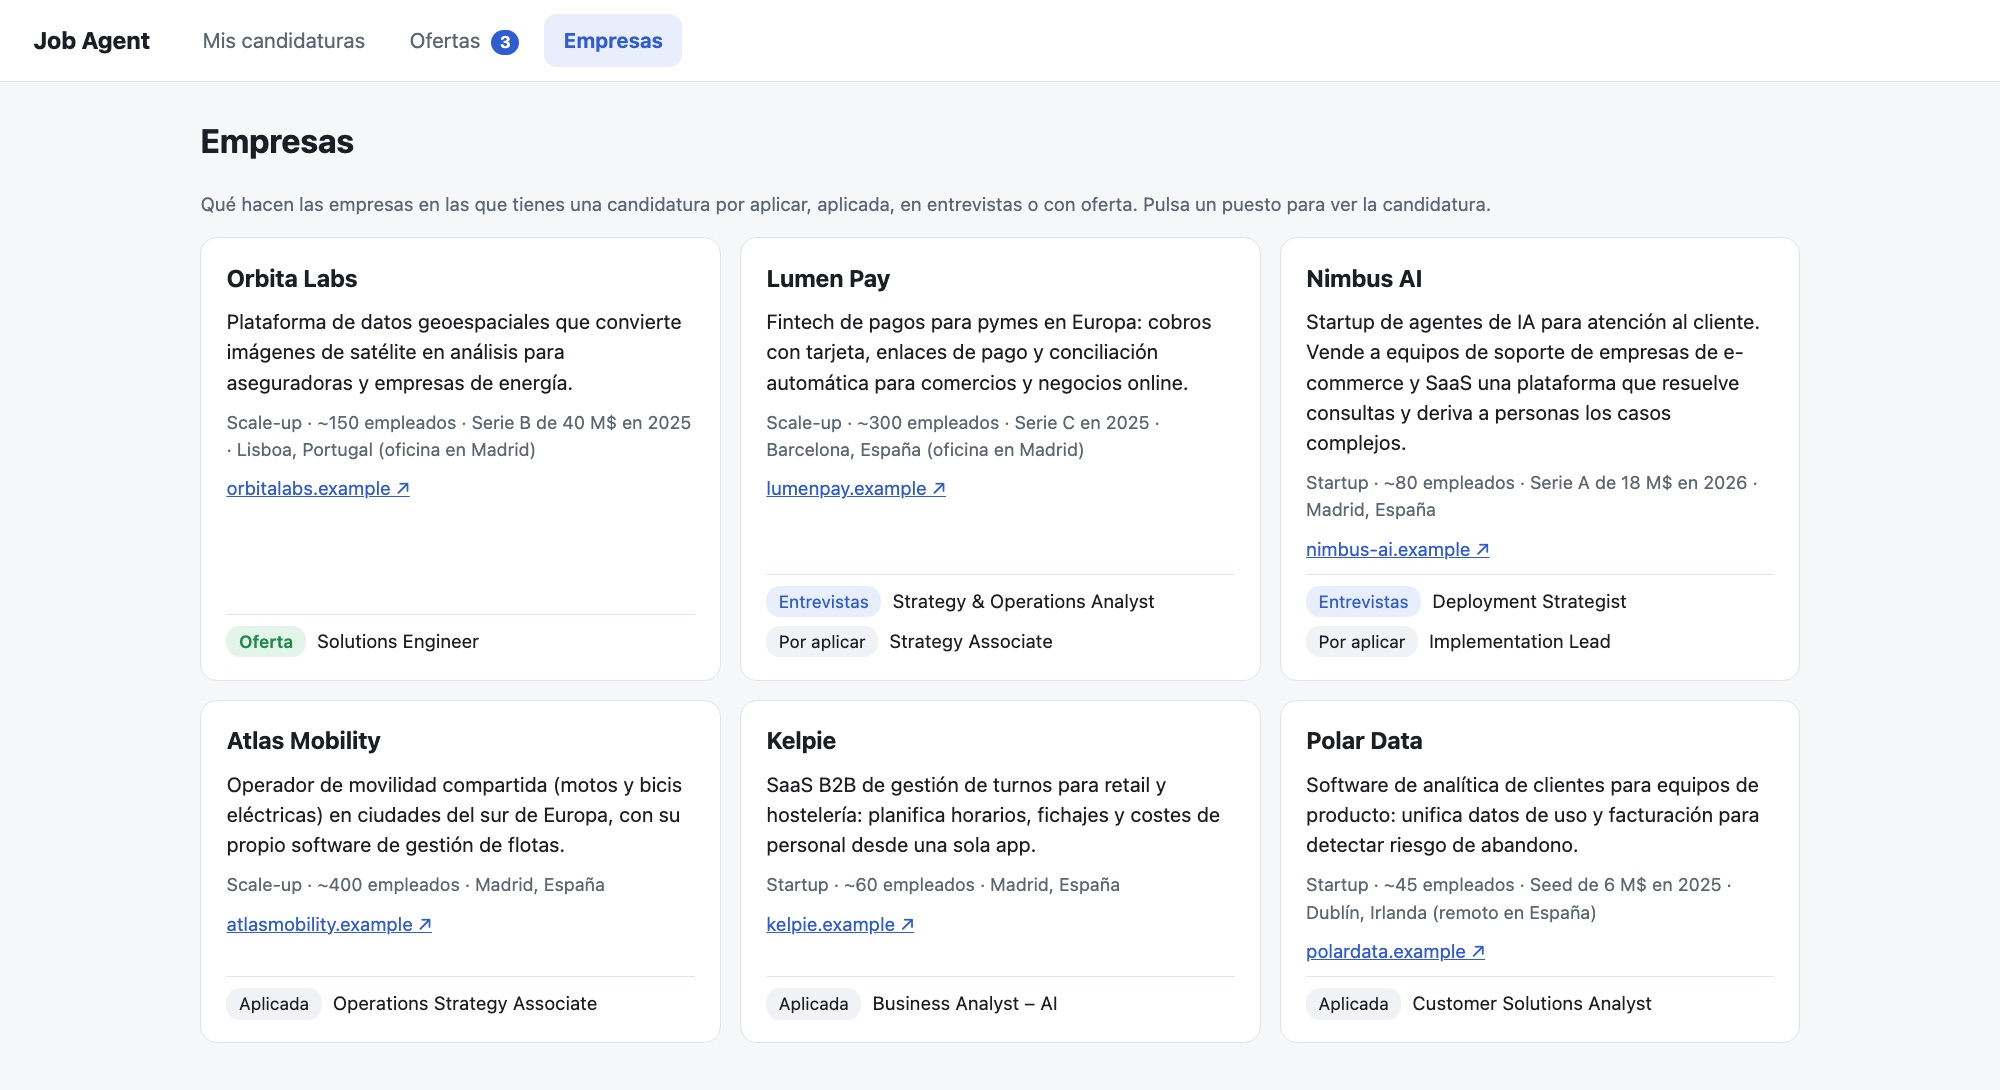
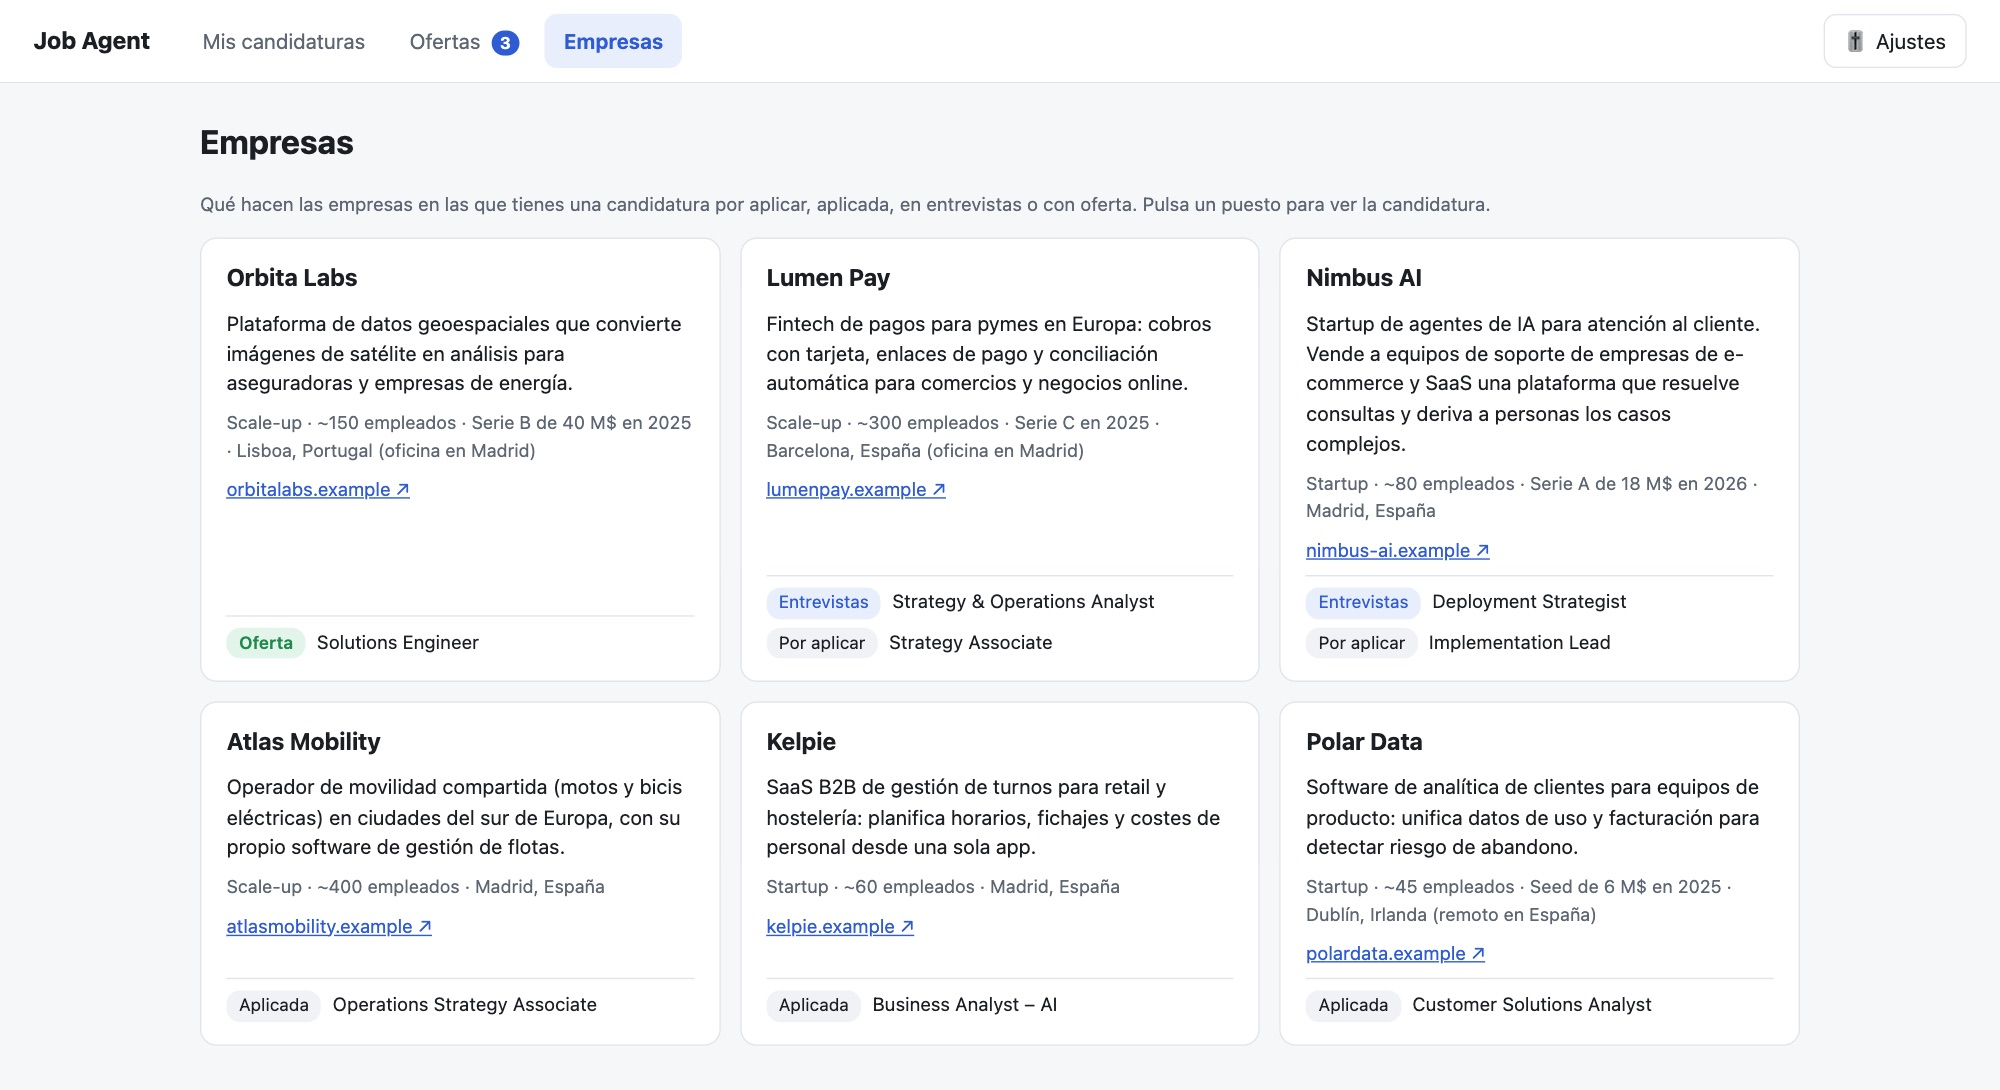
Tutor de idiomas (WIP) como proyecto destacado; Job Agent: panel de Ajustes y capturas nuevas

diff --git a/index.html b/index.html
@@ -159,6 +159,7 @@ footer { border-top: 1px solid var(--borde); color: var(--suave); font-size: 13.
     <a class="marca" href="#">Enriqueta Gersol</a>
     <nav>
       <a href="#job-agent"><span lang="es">Job Agent</span><span lang="en">Job Agent</span></a>
+      <a href="#tutor"><span lang="es">Tutor</span><span lang="en">Tutor</span></a>
       <a href="#proyectos"><span lang="es">Proyectos</span><span lang="en">Projects</span></a>
       <a href="#contacto"><span lang="es">Contacto</span><span lang="en">Contact</span></a>
     </nav>
@@ -217,7 +218,7 @@ footer { border-top: 1px solid var(--borde); color: var(--suave); font-size: 13.
           </div>
         </div>
         <ul class="cifras-proyecto">
-          <li><b>145</b><span lang="es">empresas</span><span lang="en">companies</span></li><li><b>7</b><span lang="es">plataformas de reclutamiento</span><span lang="en">recruiting platforms</span></li><li><b>17</b><span lang="es">acciones por Slack</span><span lang="en">Slack actions</span></li><li><b><span lang="es">~5.600</span><span lang="en">~5,600</span></b><span lang="es">líneas en 18 módulos</span><span lang="en">lines in 18 modules</span></li>
+          <li><b>145</b><span lang="es">empresas</span><span lang="en">companies</span></li><li><b>7</b><span lang="es">plataformas de reclutamiento</span><span lang="en">recruiting platforms</span></li><li><b>17</b><span lang="es">acciones por Slack</span><span lang="en">Slack actions</span></li><li><b><span lang="es">~5.900</span><span lang="en">~5,900</span></b><span lang="es">líneas en 18 módulos</span><span lang="en">lines in 18 modules</span></li>
         </ul>
 
         <div class="dos-columnas contexto">
@@ -257,8 +258,8 @@ footer { border-top: 1px solid var(--borde); color: var(--suave); font-size: 13.
             <figcaption><span lang="es">CV optimizado, con lo que ha cambiado y lo que hay que revisar al lado</span><span lang="en">Tailored CV, with what changed and what to review alongside</span></figcaption></figure>
           <figure><div class="marco" data-zoom="img/ja-detalle.jpg"><div class="puntos"><i></i><i></i><i></i></div><img src="img/ja-detalle.jpg" alt="Detalle de una candidatura"></div>
             <figcaption><span lang="es">Detalle de una candidatura: novedad, próximo paso sugerido e historial</span><span lang="en">Application detail: latest update, suggested next step and history</span></figcaption></figure>
-          <figure><div class="marco" data-zoom="img/ja-te-interesa.jpg"><div class="puntos"><i></i><i></i><i></i></div><img src="img/ja-te-interesa.jpg" alt="Ofertas que me interesan"></div>
-            <figcaption><span lang="es">«Te interesa»: CV optimizado, aplicada o descartar, en un clic</span><span lang="en">"Interested": tailored CV, applied or dismiss, in one click</span></figcaption></figure>
+          <figure><div class="marco" data-zoom="img/ja-ajustes.jpg"><div class="puntos"><i></i><i></i><i></i></div><img src="img/ja-ajustes.jpg" alt="Ajustes de consumo"></div>
+            <figcaption><span lang="es">Ajustes: qué hace sola, cada cuánto y con qué modelo, para controlar el gasto</span><span lang="en">Settings: what it does on its own, how often and with which model, to keep costs down</span></figcaption></figure>
           <figure><div class="marco" data-zoom="img/ja-empresas.jpg"><div class="puntos"><i></i><i></i><i></i></div><img src="img/ja-empresas.jpg" alt="Fichas de empresas"></div>
             <figcaption><span lang="es">Empresas: una ficha por empresa con lo que hace, su tamaño, su sede y mis puestos allí</span><span lang="en">Companies: one card per company with what it does, its size, its HQ and my roles there</span></figcaption></figure>
           <figure><div class="marco" data-zoom="img/ja-aplicadas.jpg"><div class="puntos"><i></i><i></i><i></i></div><img src="img/ja-aplicadas.jpg" alt="Puestos aplicados"></div>
@@ -271,7 +272,7 @@ footer { border-top: 1px solid var(--borde); color: var(--suave); font-size: 13.
             <ul class="decisiones">
               <li><span class="n">1</span><div><b><span lang="es">La persona decide</span><span lang="en">The human decides</span></b><p><span lang="es">Nada importante se guarda sin un sí.</span><span lang="en">Nothing important is saved without a yes.</span></p></div></li>
               <li><span class="n">2</span><div><b><span lang="es">Sin inventar</span><span lang="en">No making things up</span></b><p><span lang="es">Datos solo si están en el CV, la oferta o el correo; si falta algo, pregunta.</span><span lang="en">Facts only if they're in the CV, the posting or the email; if something is missing, it asks.</span></p></div></li>
-              <li><span class="n">3</span><div><b><span lang="es">Coste bajo control</span><span lang="en">Cost under control</span></b><p><span lang="es">Cada tarea usa el modelo justo: Haiku para clasificar correos, cribar por título, sugerir próximos pasos, las fichas de empresa y el chat; Sonnet para analizar ofertas y escribir CVs. Las búsquedas filtran por título antes de analizar a fondo. Un correo cuesta ≈ 0,0005 $, un mensaje de chat ≈ 0,002 $ y un CV ≈ 0,10-0,15 $.</span><span lang="en">Each task uses the right model: Haiku to classify emails, screen titles, suggest next steps, build company cards and chat; Sonnet to analyse openings and write CVs. Searches filter by title before any in-depth analysis. An email costs ≈ $0.0005, a chat message ≈ $0.002 and a CV ≈ $0.10–0.15.</span></p></div></li>
+              <li><span class="n">3</span><div><b><span lang="es">Coste bajo control</span><span lang="en">Cost under control</span></b><p><span lang="es">Cada tarea usa el modelo justo: Haiku para clasificar correos, cribar por título, sugerir próximos pasos, las fichas de empresa y el chat; Sonnet para analizar ofertas y escribir CVs. Las búsquedas filtran por título antes de analizar a fondo. Un correo cuesta ≈ 0,0005 $, un mensaje de chat ≈ 0,002 $ y un CV ≈ 0,10-0,15 $. Un panel de Ajustes permite gastar aún menos: modo ahorro (Haiku también para analizar ofertas), cada cuánto se investigan las alertas, cuántas ofertas analiza cada búsqueda y apagar las tareas automáticas.</span><span lang="en">Each task uses the right model: Haiku to classify emails, screen titles, suggest next steps, build company cards and chat; Sonnet to analyse openings and write CVs. Searches filter by title before any in-depth analysis. An email costs ≈ $0.0005, a chat message ≈ $0.002 and a CV ≈ $0.10–0.15. A Settings panel cuts costs further: a saver mode (Haiku for analysing openings too), how often job alerts are researched, how many openings each search analyses, and switching off automatic tasks.</span></p></div></li>
               <li><span class="n">4</span><div><b><span lang="es">Privacidad</span><span lang="en">Privacy</span></b><p><span lang="es">Funciona en mi ordenador y mis claves nunca se suben a ningún sitio. En Gmail solo lee y etiqueta. El contenido de correos y webs se trata como datos, nunca como instrucciones.</span><span lang="en">Runs on my computer and my keys are never uploaded anywhere. In Gmail it only reads and labels. Email and web content is treated as data, never as instructions.</span></p></div></li>
               <li><span class="n">5</span><div><b><span lang="es">Interfaz sencilla</span><span lang="en">Simple interface</span></b><p><span lang="es">Botones claros, avisos que aparecen un momento y todo en español.</span><span lang="en">Clear buttons, short-lived notifications and everything in Spanish.</span></p></div></li>
             </ul>
@@ -283,7 +284,7 @@ footer { border-top: 1px solid var(--borde); color: var(--suave); font-size: 13.
                 <dt><span lang="es">Lenguajes</span><span lang="en">Languages</span></dt><dd>Python · HTML/CSS/JS</dd>
                 <dt><span lang="es">IA</span><span lang="en">AI</span></dt><dd><span lang="es">API de Claude (Haiku y Sonnet) y Claude Code</span><span lang="en">Claude API (Haiku and Sonnet) and Claude Code</span></dd>
                 <dt><span lang="es">Integraciones</span><span lang="en">Integrations</span></dt><dd><span lang="es">Gmail API (OAuth) y Slack API (Socket Mode, sin servidor público)</span><span lang="en">Gmail API (OAuth) and Slack API (Socket Mode, no public server)</span></dd>
-                <dt><span lang="es">Tamaño</span><span lang="en">Size</span></dt><dd><span lang="es">~5.600 líneas de código en 18 módulos</span><span lang="en">~5,600 lines of code in 18 modules</span></dd>
+                <dt><span lang="es">Tamaño</span><span lang="en">Size</span></dt><dd><span lang="es">~5.900 líneas de código en 18 módulos</span><span lang="en">~5,900 lines of code in 18 modules</span></dd>
               </dl>
             </div>
             <div class="caja aprendi">
@@ -291,6 +292,64 @@ footer { border-top: 1px solid var(--borde); color: var(--suave); font-size: 13.
               <p><span lang="es">Diseñar agentes de IA útiles va de poner límites claros, medir el coste de cada paso y dejar el control a la persona.</span><span lang="en">Building useful AI agents is about setting clear limits, measuring the cost of every step and leaving the person in control.</span></p>
               <p><span lang="es">También va de probarlos en uso real: cada fallo que encontré usándolo se convirtió en una regla del producto. Por ejemplo, una ubicación en español que no reconocía, o un bot que deshacía cambios hechos en la app.</span><span lang="en">It is also about testing them in real use: every bug I found while using it became a product rule. For example, a Spanish location it did not recognise, or a bot that undid changes made in the app.</span></p>
             </div>
+          </div>
+        </div>
+      </div>
+    </div>
+  </section>
+
+  <!-- TUTOR DE IDIOMAS -->
+  <section id="tutor">
+    <div class="envoltorio">
+      <p class="titulo-seccion"><span lang="es">Proyecto destacado · 2026</span><span lang="en">Featured project · 2026</span> <span class="en-desarrollo">WIP · <span lang="es">En desarrollo</span><span lang="en">In progress</span></span></p>
+      <div class="destacado">
+        <div class="cabecera-destacado">
+          <div>
+            <h2><span lang="es">Tutor de idiomas por voz</span><span lang="en">Voice language tutor</span></h2>
+            <p class="intro" style="margin-bottom:0"><span lang="es">Un profesor de idiomas con el que hablas en voz alta, como en una clase particular. Te corrige mientras hablas, recuerda tus errores y te prepara ejercicios, listenings, lecturas y writings a tu medida, hasta un examen de nivel al estilo Cambridge.</span><span lang="en">A language teacher you talk to out loud, like a private lesson. It corrects you as you speak, remembers your mistakes and prepares exercises, listening, reading and writing tailored to you, up to a Cambridge-style level exam.</span></p>
+          </div>
+        </div>
+        <ul class="cifras-proyecto">
+          <li><b>5</b><span lang="es">idiomas</span><span lang="en">languages</span></li><li><b>14</b><span lang="es">profesores con su propia voz</span><span lang="en">teachers with their own voice</span></li><li><b>5</b><span lang="es">destrezas: hablar, escuchar, leer, escribir y gramática</span><span lang="en">skills: speaking, listening, reading, writing and grammar</span></li><li><b>A1–C2</b><span lang="es">con examen para subir de nivel</span><span lang="en">with an exam to level up</span></li>
+        </ul>
+
+        <div class="marco principal" data-zoom="img/tutor-curso.jpg">
+          <div class="puntos"><i></i><i></i><i></i></div>
+          <img src="img/tutor-curso.jpg" alt="Curso de inglés en el tutor">
+        </div>
+        <p class="nota-demo"><span lang="es">Capturas con una alumna ficticia.</span><span lang="en">Screenshots use a fictitious student.</span></p>
+
+        <h3 class="subtitulo"><span lang="es">Funcionalidades</span><span lang="en">Features</span></h3>
+        <div class="funciones">
+          <div class="funcion"><div class="icono">🎙</div><b><span lang="es">Clases por voz</span><span lang="en">Voice lessons</span></b><ul><li><span lang="es">Hablas con un profesor nativo: 14 profesores en 5 idiomas (francés, inglés, italiano, alemán y portugués), con variantes como inglés británico o americano.</span><span lang="en">You talk to a native teacher: 14 teachers across 5 languages (French, English, Italian, German and Portuguese), with variants such as British or American English.</span></li><li><span lang="es">Te corrige sobre la marcha y se acuerda de la última charla.</span><span lang="en">It corrects you as you go and remembers your last conversation.</span></li></ul></div>
+          <div class="funcion"><div class="icono">🧭</div><b><span lang="es">Prueba de nivel</span><span lang="en">Placement test</span></b><ul><li><span lang="es">Gramática, listening y speaking para fijar el nivel inicial, que luego se ajusta clase a clase.</span><span lang="en">Grammar, listening and speaking to set your starting level, which is then adjusted lesson by lesson.</span></li></ul></div>
+          <div class="funcion"><div class="icono">🧠</div><b><span lang="es">Aprende de tus errores</span><span lang="en">Learns from your mistakes</span></b><ul><li><span lang="es">Al colgar, Claude repasa la conversación, actualiza tu ficha (errores, vocabulario, nivel) y te da un informe.</span><span lang="en">When you hang up, Claude reviews the conversation, updates your profile (mistakes, vocabulary, level) and gives you a report.</span></li><li><span lang="es">Ejercicios y fichas de teoría adaptados a tus errores; un error se da por superado cuando lo aciertas varias veces.</span><span lang="en">Exercises and grammar notes tailored to your mistakes; a mistake counts as overcome once you get it right several times.</span></li></ul></div>
+          <div class="funcion"><div class="icono">🎧</div><b><span lang="es">Listening, reading y writing</span><span lang="en">Listening, reading and writing</span></b><ul><li><span lang="es">Audios y textos adaptados a tu nivel y a tus intereses, con preguntas.</span><span lang="en">Audio and texts adapted to your level and interests, with questions.</span></li><li><span lang="es">Los writings se corrigen con los criterios de Cambridge: nota, comentarios y versión corregida.</span><span lang="en">Writings are marked with Cambridge criteria: score, comments and a corrected version.</span></li></ul></div>
+          <div class="funcion"><div class="icono">🏁</div><b><span lang="es">Camino al siguiente nivel</span><span lang="en">Path to the next level</span></b><ul><li><span lang="es">Cada clase, ejercicio o texto suma al camino; al llegar al 100 % se desbloquea un examen de 5 partes al estilo Cambridge (Use of English, listening, reading, writing y speaking).</span><span lang="en">Every lesson, exercise or text adds to your progress; at 100 % a 5-part Cambridge-style exam unlocks (Use of English, listening, reading, writing and speaking).</span></li></ul></div>
+          <div class="funcion"><div class="icono">📋</div><b><span lang="es">Deberes y racha</span><span lang="en">Homework and streaks</span></b><ul><li><span lang="es">El profesor propone deberes según tus errores y lo que menos has practicado, y se marcan solos al hacerlos.</span><span lang="en">The teacher sets homework based on your mistakes and what you've practised least, and it ticks itself off when done.</span></li><li><span lang="es">Puntos y racha de días para mantener el hábito.</span><span lang="en">Points and a daily streak to keep the habit going.</span></li></ul></div>
+        </div>
+
+        <div class="galeria">
+          <figure><div class="marco" data-zoom="img/tutor-inicio.jpg"><div class="puntos"><i></i><i></i><i></i></div><img src="img/tutor-inicio.jpg" alt="Idiomas y profesores"></div>
+            <figcaption><span lang="es">Tus idiomas y los profesores, cada uno con su voz y su estilo</span><span lang="en">Your languages and the teachers, each with their own voice and style</span></figcaption></figure>
+          <figure><div class="marco" data-zoom="img/tutor-hablar.jpg"><div class="puntos"><i></i><i></i><i></i></div><img src="img/tutor-hablar.jpg" alt="Clase de conversación"></div>
+            <figcaption><span lang="es">Clase de conversación: el profesor recuerda la última charla</span><span lang="en">Conversation lesson: the teacher remembers your last chat</span></figcaption></figure>
+        </div>
+
+        <div class="dos-columnas">
+          <div class="caja">
+            <h3><span lang="es">Mi papel</span><span lang="en">My role</span></h3>
+            <p><span lang="es">Lo diseñé y lo construí con Claude Code como copiloto. Yo definí el producto, los flujos y las reglas; Claude escribía y probaba el código; yo lo valido usándolo para practicar idiomas.</span><span lang="en">I designed it and built it with Claude Code as a copilot. I defined the product, the flows and the rules; Claude wrote and tested the code; I validate it by using it to practise languages myself.</span></p>
+          </div>
+        <div class="caja">
+            <h3><span lang="es">Cómo está hecho</span><span lang="en">How it is built</span></h3>
+            <dl class="ficha">
+              <dt><span lang="es">Voz</span><span lang="en">Voice</span></dt><dd><span lang="es">LiveKit Agents: voz en tiempo real, reconocimiento y síntesis de voz y detección de turnos</span><span lang="en">LiveKit Agents: real-time voice, speech recognition and synthesis, and turn detection</span></dd>
+              <dt><span lang="es">IA</span><span lang="en">AI</span></dt><dd><span lang="es">Claude para conversar, corregir y generar ejercicios, textos y exámenes con salidas estructuradas</span><span lang="en">Claude to talk, correct and generate exercises, texts and exams with structured outputs</span></dd>
+              <dt><span lang="es">App</span><span lang="en">App</span></dt><dd>Python · FastAPI · Next.js · React</dd>
+              <dt><span lang="es">Despliegue</span><span lang="en">Deployment</span></dt><dd><span lang="es">En preparación: Supabase (cuentas por invitación y datos), Railway, Vercel y LiveKit Cloud</span><span lang="en">In progress: Supabase (invite-only accounts and data), Railway, Vercel and LiveKit Cloud</span></dd>
+              <dt><span lang="es">Código</span><span lang="en">Code</span></dt><dd><span lang="es">Privado</span><span lang="en">Private</span></dd>
+            </dl>
           </div>
         </div>
       </div>
